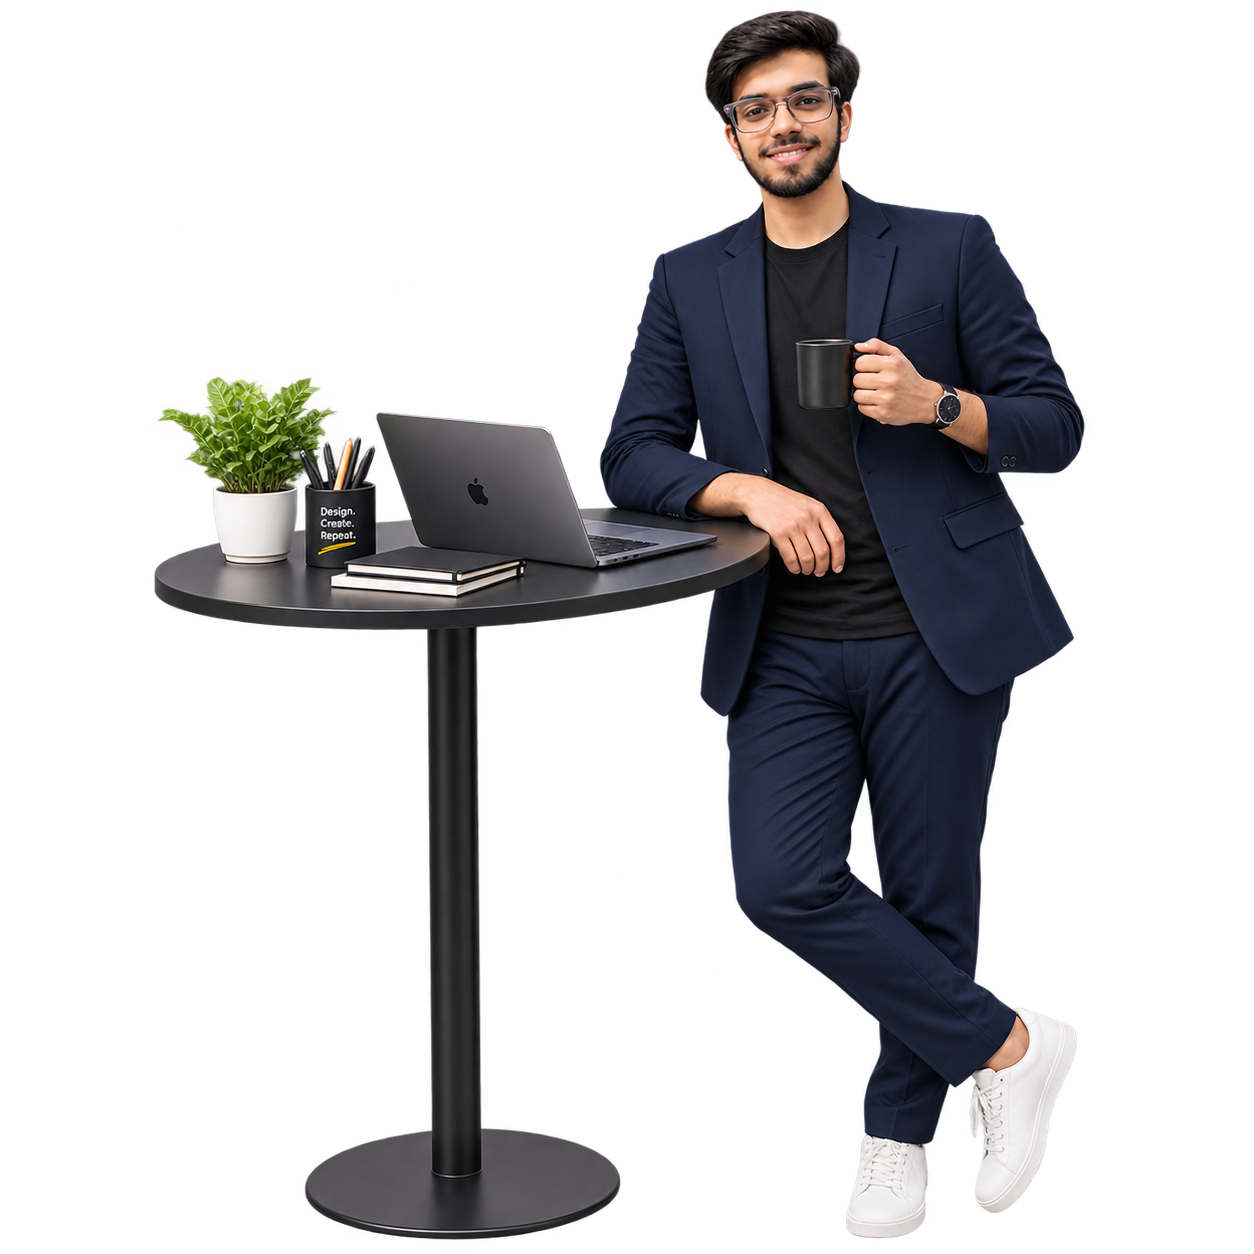
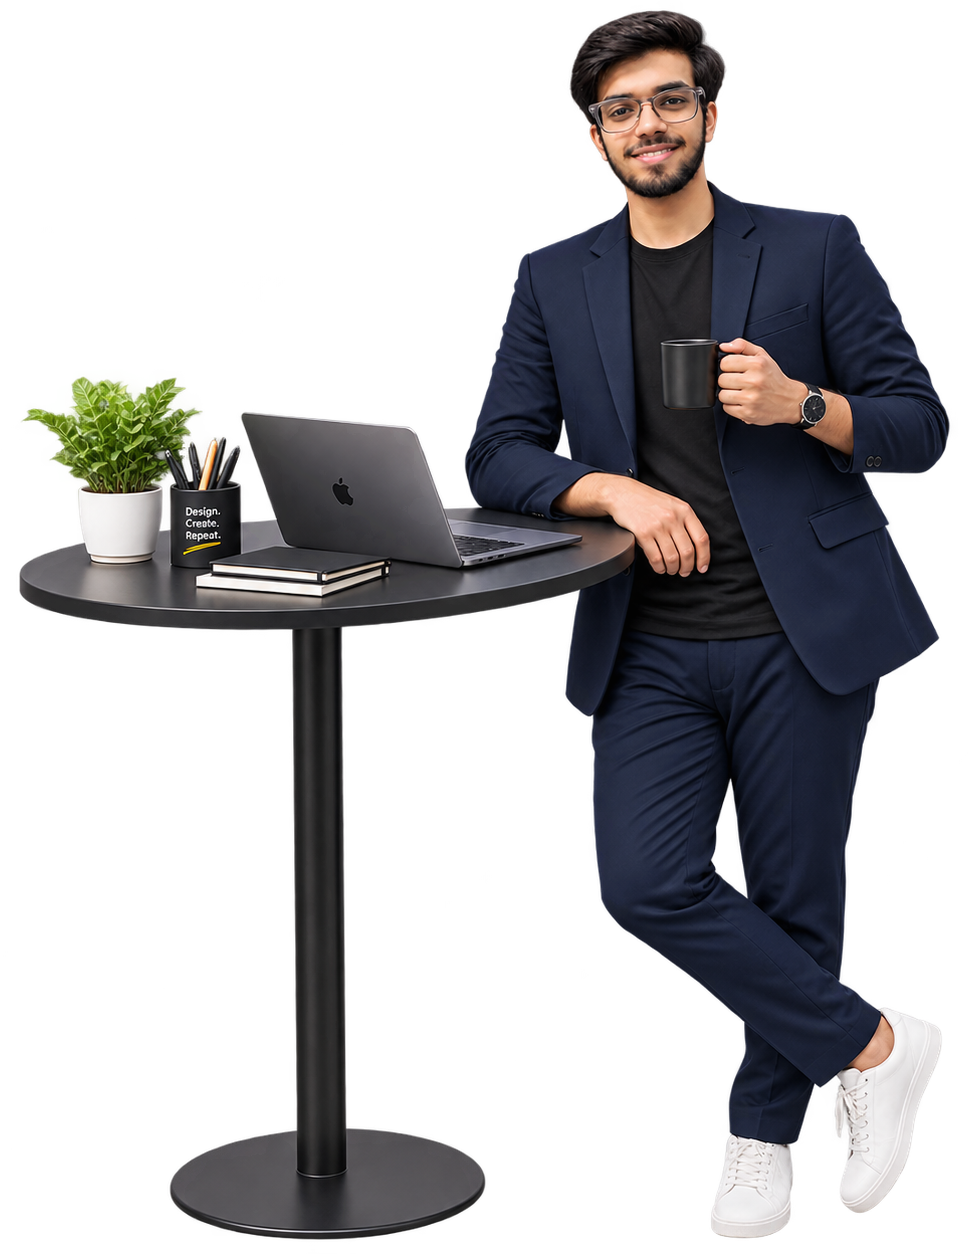
Enhance About portrait ground shadows for shoes and table base

diff --git a/src/components/About.jsx b/src/components/About.jsx
@@ -50,12 +50,17 @@ export default function About() {
           <img 
             src={aboutStand} 
             alt="Vansh standing by desk" 
-            className="w-full h-auto object-contain relative z-10 drop-shadow-[0_12px_14px_rgba(0,0,0,0.12)]"
+            className="w-full h-auto object-contain relative z-10 drop-shadow-[0_10px_12px_rgba(0,0,0,0.14)]"
           />
-          {/* Ground Shadow */}
+          {/* Table-base shadow (left-center) */}
           <div 
             aria-hidden="true"
-            className="absolute bottom-2 left-1/2 -translate-x-1/2 w-[60%] h-[22px] rounded-[50%] blur-[6px] pointer-events-none z-0 bg-[radial-gradient(ellipse_at_center,rgba(0,0,0,0.28)_0%,rgba(0,0,0,0)_70%)] dark:bg-[radial-gradient(ellipse_at_center,rgba(0,0,0,0.15)_0%,rgba(0,0,0,0)_70%)]"
+            className="absolute bottom-[4%] left-[33%] -translate-x-1/2 w-[25%] h-[18px] rounded-[50%] blur-[7px] pointer-events-none z-0 bg-[radial-gradient(ellipse_at_center,rgba(0,0,0,0.40)_0%,rgba(0,0,0,0)_72%)] dark:bg-[radial-gradient(ellipse_at_center,rgba(0,0,0,0.30)_0%,rgba(0,0,0,0)_72%)]"
+          />
+          {/* Shoes shadow (right side) */}
+          <div 
+            aria-hidden="true"
+            className="absolute bottom-[2%] left-[75%] -translate-x-1/2 w-[32%] h-[24px] rounded-[50%] blur-[7px] pointer-events-none z-0 bg-[radial-gradient(ellipse_at_center,rgba(0,0,0,0.42)_0%,rgba(0,0,0,0)_72%)] dark:bg-[radial-gradient(ellipse_at_center,rgba(0,0,0,0.32)_0%,rgba(0,0,0,0)_72%)]"
           />
         </div>
 
